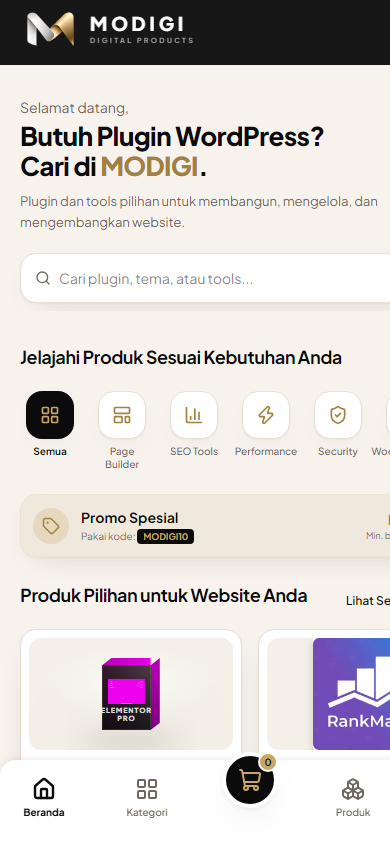
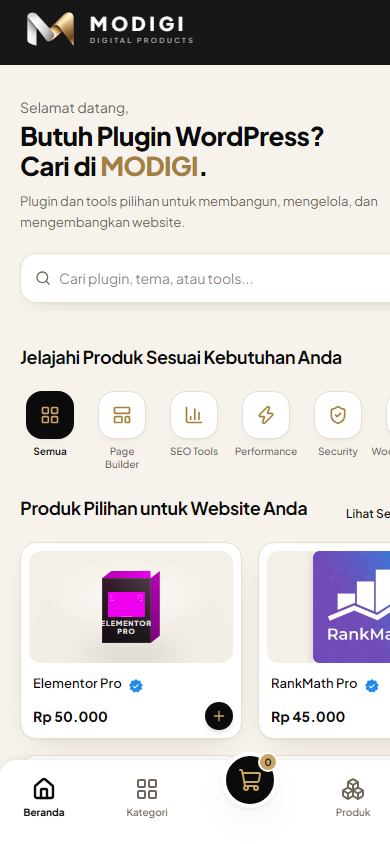
Hapus kartu kode promo dari beranda
Kartu "Promo Spesial MODIGI10" hanya muncul di layar < 1024px dan menambah satu
blok lagi setelah banner geser yang sudah dihapus lebih dulu. Beranda mobile
sekarang langsung masuk ke baris kategori setelah kolom pencarian; komponennya
dibuang seluruhnya (bukan disembunyikan) supaya tidak ada kode mati. Tampilan
desktop tidak berubah sama sekali.

🤖 Generated with Codebuff

Changed region(s): [[0.0308, 0.5853, 1.0, 0.8934], [0.6462, 0.8626, 0.6769, 0.8934]]

diff --git a/src/app/(main)/page.tsx b/src/app/(main)/page.tsx
@@ -1,20 +1,19 @@
 import { CategoryShowcase } from "@/components/home/category-showcase";
 import { CtaBanner } from "@/components/home/cta-banner";
 import { HeroSection } from "@/components/home/hero-section";
-import { PromoCodeBanner } from "@/components/home/promo-code-banner";
 import { TrendingProducts } from "@/components/home/trending-products";
 
 /**
  * Halaman utama.
  * Urutan section ada di sini — atur/reorder cukup dengan memindahkan baris.
- * `PromoCodeBanner` menyembunyikan dirinya sendiri di desktop (`lg:hidden`).
+ * Section yang tampil berbeda antar breakpoint menangani sendiri di dalam
+ * komponennya (mis. hero memakai `lg:*`), jadi daftar di sini tetap ringkas.
  */
 export default function HomePage() {
   return (
     <>
       <HeroSection />
       <CategoryShowcase />
-      <PromoCodeBanner />
       <TrendingProducts />
       <CtaBanner />
     </>

diff --git a/src/data/site.ts b/src/data/site.ts
@@ -38,17 +38,6 @@ export const popularSearches = ["Elementor", "RankMath", "WP Rocket", "WooCommer
  */
 export const heroGreeting = "Selamat datang,";
 
-/**
- * Kartu kode promo yang tampil di mobile (di atas daftar produk).
- * Isinya placeholder — ganti nilainya di sini, kartunya ikut otomatis.
- */
-export const promoCode = {
-  title: "Promo Spesial",
-  code: "MODIGI10",
-  discount: "Diskon 10%",
-  minSpend: "Min. belanja Rp150.000",
-};
-
 /** Poin keunggulan di bawah daftar produk terlaris. */
 export const trustPoints: TrustPoint[] = [
   {

diff --git a/README.md b/README.md
@@ -167,7 +167,7 @@ src/
 │  └─ brands/                 # logo RESMI tiap plugin (dipakai apa adanya)
 │
 ├─ data/                      # SEMUA konten & daftar produk
-│  ├─ site.ts                 # hero, statistik, trust bar, CTA, kode promo
+│  ├─ site.ts                 # hero, statistik, trust bar, CTA
 │  ├─ navigation.ts           # menu header, kolom footer, social media
 │  ├─ categories.ts           # daftar kategori
 │  ├─ products.ts             # produk: harga, versi, spesifikasi, FAQ
@@ -294,10 +294,11 @@ Beberapa keputusan yang sengaja diambil, dan alasannya:
 7. **UI diverifikasi dengan pengukuran**, bukan perkiraan: Chrome headless dipakai
    untuk memeriksa overflow horizontal, ukuran target sentuh, ukuran artwork, dan
    panjang baris teks di banyak lebar layar selama pengembangan.
-8. **Hero mobile dipisah, banner promo dihapus.** Mobile memakai hero ringkas
+8. **Hero mobile dipisah; dua blok promo dihapus.** Mobile memakai hero ringkas
    (sapaan + judul + pencarian) di latar cream, desktop memakai panel gelap dengan
-   artwork. Banner promo geser pernah dicoba di bawah hero mobile tetapi dihapus:
-   terlalu banyak konten di satu layar kecil.
+   artwork. Banner promo geser dan kartu kode promo pernah dicoba di beranda mobile,
+   keduanya dibuang: terlalu banyak konten berdesakan di satu layar kecil. Efeknya
+   mobile langsung masuk ke baris kategori setelah kolom pencarian.
 
 ---
 
